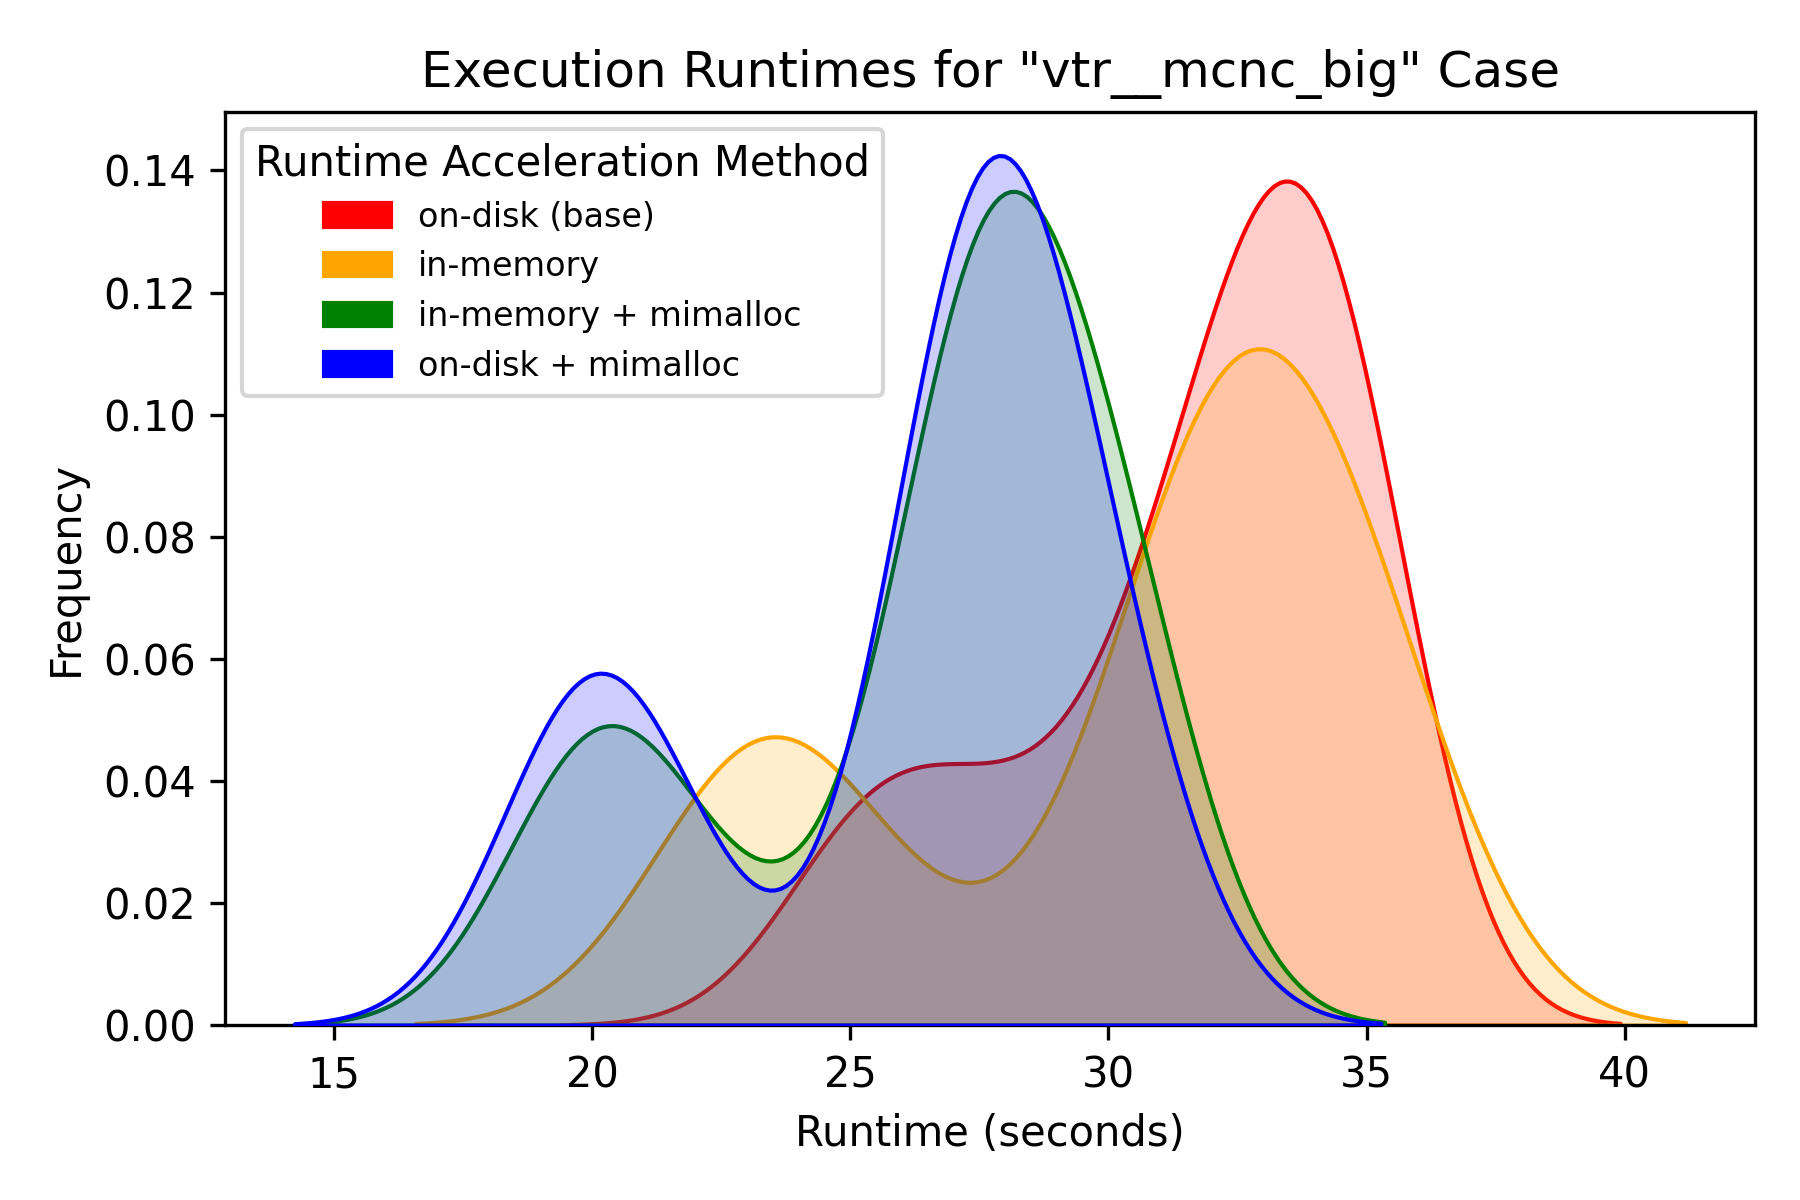
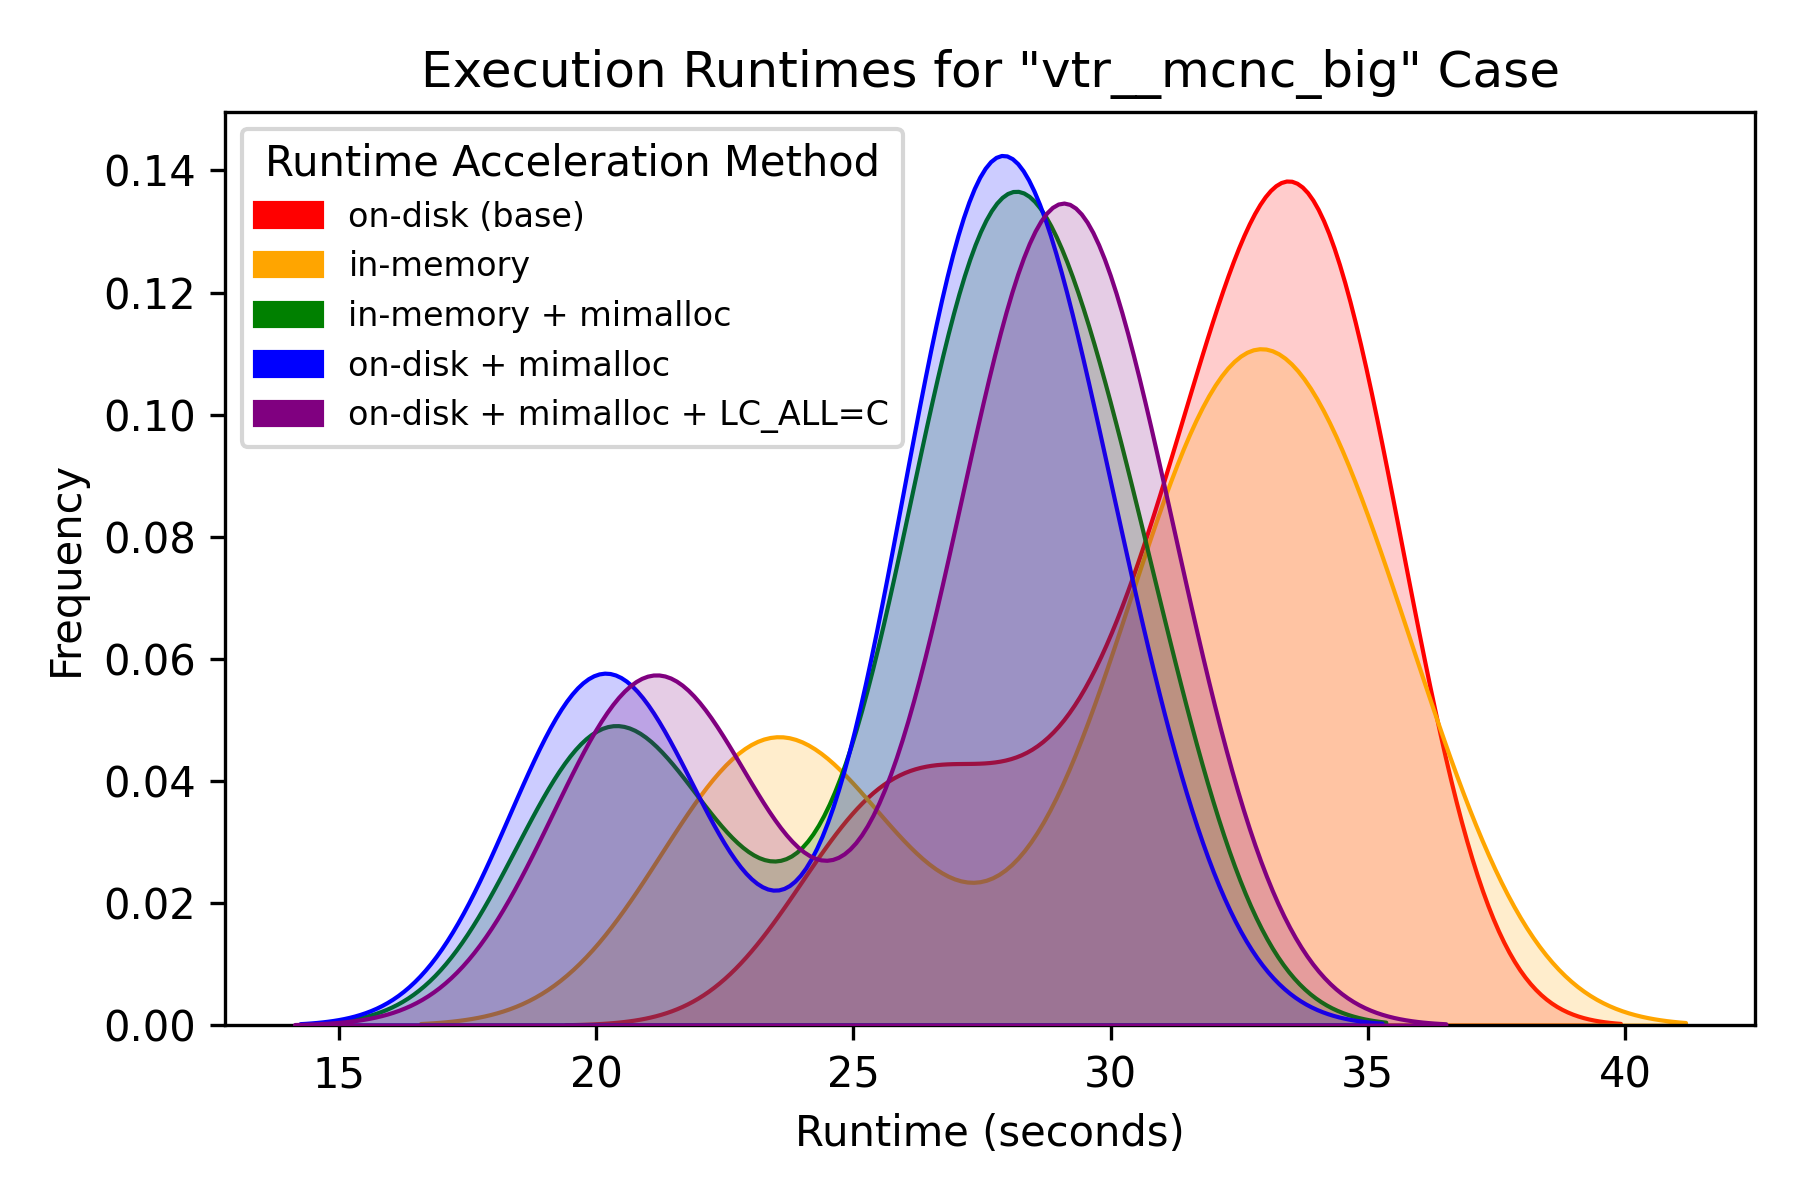
updates

diff --git a/analysis.py b/analysis.py
@@ -31,11 +31,14 @@ for r in exp_results:
     print(f"  - tags: {', '.join(r.tags)}")
 
 
+TOOLS = ["vtr", "vitis_hls"]
+
 MAP_COLORS = {
     "disk": "red",
     "shm": "orange",
     "shm+mimalloc": "green",
     "disk+mimalloc": "blue",
+    "disk+mimalloc+lcall": "purple",
 }
 
 MAP_LABELS = {
@@ -43,6 +46,15 @@ MAP_LABELS = {
     "shm": "in-memory",
     "shm+mimalloc": "in-memory + mimalloc",
     "disk+mimalloc": "on-disk + mimalloc",
+    "disk+mimalloc+lcall": "on-disk + mimalloc + LC_ALL=C",
+}
+
+MAP_ZORDER = {
+    "disk": 1,
+    "shm": 2,
+    "shm+mimalloc": 3,
+    "disk+mimalloc": 4,
+    "disk+mimalloc+lcall": 5,
 }
 
 
@@ -53,38 +65,43 @@ def gather_data(
     # filter results with the deisgn name in the tag
 
     filtered_results = [r for r in exp_results if design_name in r.tags]
-    assert len(filtered_results) == 4
+
+    tag_sets = [set(r.tags) for r in filtered_results]
+    for ts in tag_sets:
+        ts.remove(design_name)
+        for tool in TOOLS:
+            if tool in ts:
+                ts.remove(tool)
 
     disk_result = next(
-        (
-            r
-            for r in filtered_results
-            if "disk" in r.tags and "shm" not in r.tags and "mimalloc" not in r.tags
-        ),
+        (r for r, tag_set in zip(filtered_results, tag_sets) if tag_set == {"disk"}),
         None,
     )
     shm_result = next(
-        (
-            r
-            for r in filtered_results
-            if "disk" not in r.tags and "shm" in r.tags and "mimalloc" not in r.tags
-        ),
+        (r for r, tag_set in zip(filtered_results, tag_sets) if tag_set == {"shm"}),
         None,
     )
     shm_mimalloc_result = next(
         (
             r
-            for r in filtered_results
-            if "disk" not in r.tags and "shm" in r.tags and "mimalloc" in r.tags
+            for r, tag_set in zip(filtered_results, tag_sets)
+            if tag_set == {"shm", "mimalloc"}
         ),
         None,
     )
-
     disk_mimalloc_result = next(
         (
             r
-            for r in filtered_results
-            if "disk" in r.tags and "shm" not in r.tags and "mimalloc" in r.tags
+            for r, tag_set in zip(filtered_results, tag_sets)
+            if tag_set == {"disk", "mimalloc"}
+        ),
+        None,
+    )
+    disk_mimalloc_lcall_result = next(
+        (
+            r
+            for r, tag_set in zip(filtered_results, tag_sets)
+            if tag_set == {"disk", "mimalloc", "lcall"}
         ),
         None,
     )
@@ -93,11 +110,19 @@ def gather_data(
     shm_result = unwrap(shm_result)
     shm_mimalloc_result = unwrap(shm_mimalloc_result)
     disk_mimalloc_result = unwrap(disk_mimalloc_result)
+    disk_mimalloc_lcall_result = unwrap(disk_mimalloc_lcall_result)
 
+    # gather all results into a single dataframe
     data = []
     for r, label in zip(
-        [disk_result, shm_result, shm_mimalloc_result, disk_mimalloc_result],
-        ["disk", "shm", "shm+mimalloc", "disk+mimalloc"],
+        [
+            disk_result,
+            shm_result,
+            shm_mimalloc_result,
+            disk_mimalloc_result,
+            disk_mimalloc_lcall_result,
+        ],
+        ["disk", "shm", "shm+mimalloc", "disk+mimalloc", "disk+mimalloc+lcall"],
     ):
         for t in r.times:
             data.append((t, label))
@@ -114,14 +139,12 @@ def plot_results_single_design(
 
     fig, ax = plt.subplots(figsize=(6, 4))
 
-    palette, hue_order = MAP_COLORS, ["disk", "shm", "shm+mimalloc", "disk+mimalloc"]
+    palette, hue_order = (
+        MAP_COLORS,
+        ["disk", "shm", "shm+mimalloc", "disk+mimalloc", "disk+mimalloc+lcall"],
+    )
 
-    zorder_map = {
-        "disk": 1,
-        "shm": 2,
-        "shm+mimalloc": 3,
-        "disk+mimalloc": 4,
-    }
+    zorder_map = MAP_ZORDER
 
     for label in hue_order:
         sns.kdeplot(
@@ -137,22 +160,8 @@ def plot_results_single_design(
         )
 
     leg_handles = [
-        plt.Rectangle((0, 0), 1, 1, color=MAP_COLORS["disk"], label=MAP_LABELS["disk"]),
-        plt.Rectangle((0, 0), 1, 1, color=MAP_COLORS["shm"], label=MAP_LABELS["shm"]),
-        plt.Rectangle(
-            (0, 0),
-            1,
-            1,
-            color=MAP_COLORS["shm+mimalloc"],
-            label=MAP_LABELS["shm+mimalloc"],
-        ),
-        plt.Rectangle(
-            (0, 0),
-            1,
-            1,
-            color=MAP_COLORS["disk+mimalloc"],
-            label=MAP_LABELS["disk+mimalloc"],
-        ),
+        plt.Rectangle((0, 0), 1, 1, color=MAP_COLORS[case], label=MAP_LABELS[case])
+        for case in hue_order
     ]
 
     ax.legend(
@@ -207,7 +216,13 @@ def build_report_single_design(
     # clean up this table and make it pretty as a markdown table
     stats_norm = stats_norm.drop(columns=["label"])
     stats_norm = stats_norm.round(2)
-    stats_norm.index = ["disk", "shm", "shm+mimalloc", "disk+mimalloc"]
+    stats_norm.index = [
+        "disk",
+        "shm",
+        "shm+mimalloc",
+        "disk+mimalloc",
+        "disk+mimalloc+lcall",
+    ]
 
     # add an index label
     stats_norm.index.name = "Method"
@@ -247,6 +262,9 @@ def build_stats_tests_single_design(
     shm_times = df_plot[df_plot["label"] == "shm"]["time"]
     shm_mimalloc_times = df_plot[df_plot["label"] == "shm+mimalloc"]["time"]
     disk_mimalloc_times = df_plot[df_plot["label"] == "disk+mimalloc"]["time"]
+    disk_mimalloc_lcall_times = df_plot[df_plot["label"] == "disk+mimalloc+lcall"][
+        "time"
+    ]
 
     stat_shm, p_shm = mannwhitneyu(shm_times, disk_times, alternative="less")
     stat_shm_mimalloc, p_shm_mimalloc = mannwhitneyu(
@@ -255,11 +273,15 @@ def build_stats_tests_single_design(
     stat_disk_mimalloc, p_disk_mimalloc = mannwhitneyu(
         disk_mimalloc_times, disk_times, alternative="less"
     )
+    stat_disk_mimalloc_lcall, p_disk_mimalloc_lcall = mannwhitneyu(
+        disk_mimalloc_lcall_times, disk_times, alternative="less"
+    )
 
     report += "## Mann-Whitney U Test Results\n"
     report += f"- SHM < Disk: U-statistic = {stat_shm:.2f}, p-value = {p_shm:.4f}\n"
     report += f"- SHM + Mimalloc < Disk: U-statistic = {stat_shm_mimalloc:.2f}, p-value = {p_shm_mimalloc:.4f}\n"
     report += f"- Disk + Mimalloc < Disk: U-statistic = {stat_disk_mimalloc:.2f}, p-value = {p_disk_mimalloc:.4f}\n"
+    report += f"- Disk + Mimalloc + LC_ALL=C < Disk: U-statistic = {stat_disk_mimalloc_lcall:.2f}, p-value = {p_disk_mimalloc_lcall:.4f}\n"
 
     return report
 
@@ -276,7 +298,7 @@ for design_name in designs_to_plot:
     fig.savefig(DIR_FIGURES / f"{design_name}_execution_times.png", dpi=300)
     plt.close(fig)
 
-    # build_report_single_design(exp_results, design_name)
+    build_report_single_design(exp_results, design_name)
 
     stats = build_stats_tests_single_design(exp_results, design_name)
     print(stats)

diff --git a/main.py b/main.py
@@ -286,6 +286,32 @@ def run_use_mimalloc(
     return dt
 
 
+def run_use_mimalloc_and_lcall(
+    tool_fn: TToolRun,
+    test_design: TestDesign,
+    work_dir: Path,
+    mimalloc_so_fp: Path,
+) -> float:
+    if not work_dir.exists():
+        raise FileNotFoundError(f"Work directory {work_dir} does not exist.")
+    iso_timestamp: str = datetime.datetime.now().strftime("%Y%m%d_%H%M%S")
+    with TemporaryDirectory(
+        dir=work_dir, delete=True, prefix=f"{iso_timestamp}__"
+    ) as tmpdir:
+        temp_fp = Path(tmpdir)
+        test_design_in_temp = test_design.copy_to_dir(temp_fp)
+        dt = tool_fn(
+            cwd=test_design_in_temp.design_dir,
+            env={
+                "LD_PRELOAD": str(mimalloc_so_fp),
+                "MIMALLOC_ARENA_EAGER_COMMIT": "2",
+                "MIMALLOC_PURGE_DELAY": "200",
+                "LC_ALL": "C",
+            },
+        )
+    return dt
+
+
 def create_vtr_tool_fn(
     vtr_bin: Path, vtr_run_fp: Path, use_mimalloc_binary: bool = False
 ) -> TToolRun:
@@ -365,6 +391,16 @@ def create_run_modes(
                 ),
                 ["disk", "mimalloc"],
             ),
+            (
+                "disk+mimalloc+lcall",
+                lambda: run_use_mimalloc_and_lcall(
+                    create_tool_runner(tool, design, True),
+                    design,
+                    work_dir,
+                    mimalloc_so_fp,
+                ),
+                ["disk", "mimalloc", "lcall"],
+            ),
         ]
     else:
         tool_fn = create_tool_runner(tool, design, False)
@@ -380,6 +416,13 @@ def create_run_modes(
                 "disk+mimalloc",
                 lambda: run_use_mimalloc(tool_fn, design, work_dir, mimalloc_so_fp),
                 ["disk", "mimalloc"],
+            ),
+            (
+                "disk+mimalloc+lcall",
+                lambda: run_use_mimalloc_and_lcall(
+                    tool_fn, design, work_dir, mimalloc_so_fp
+                ),
+                ["disk", "mimalloc", "lcall"],
             ),
         ]
 
@@ -545,10 +588,11 @@ if __name__ == "__main__":
         # "vitis_hls__simple",
     ]
     RUN_MODES_TO_TEST = [
-        "disk",
-        "shm",
-        "shm+mimalloc",
-        "disk+mimalloc",
+        # "disk",
+        # "shm",
+        # "shm+mimalloc",
+        # "disk+mimalloc",
+        "disk+mimalloc+lcall",
     ]
 
     for tool in TOOLS_TO_TEST:
